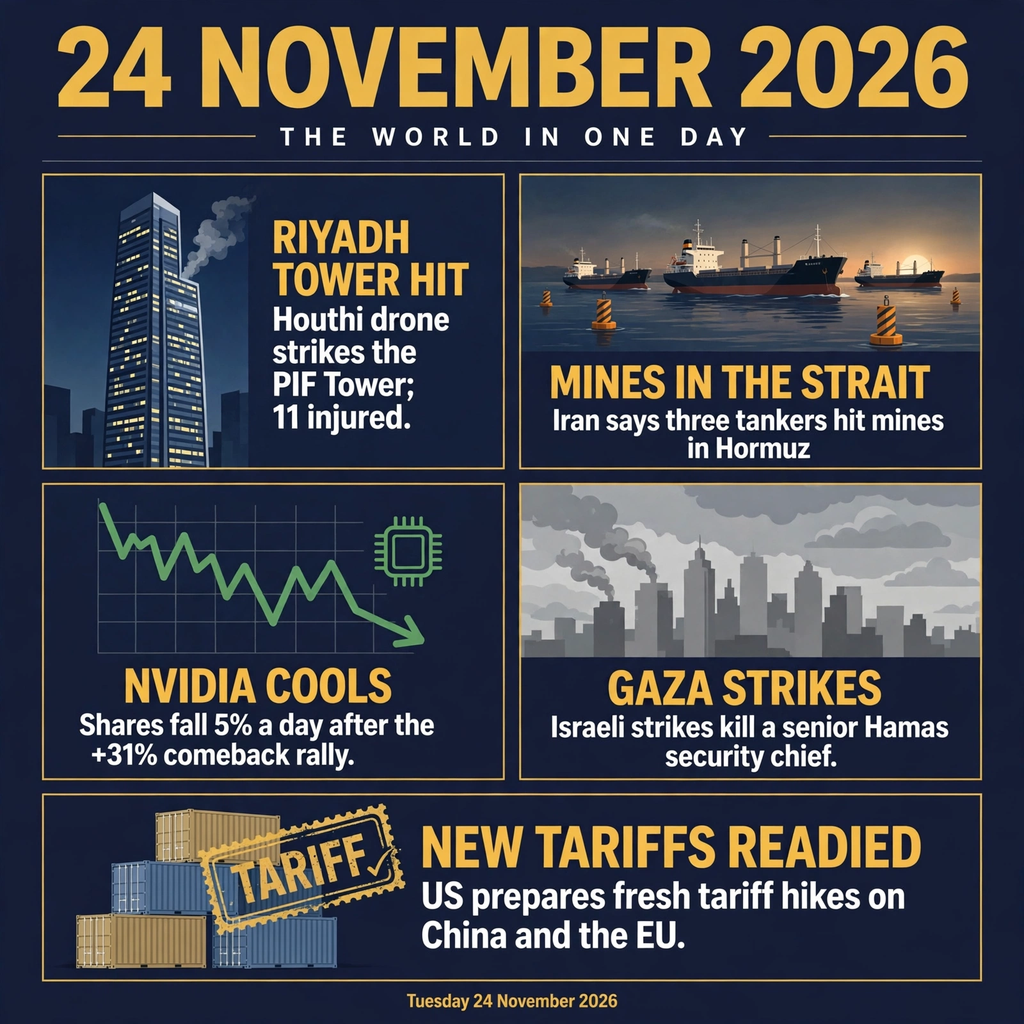
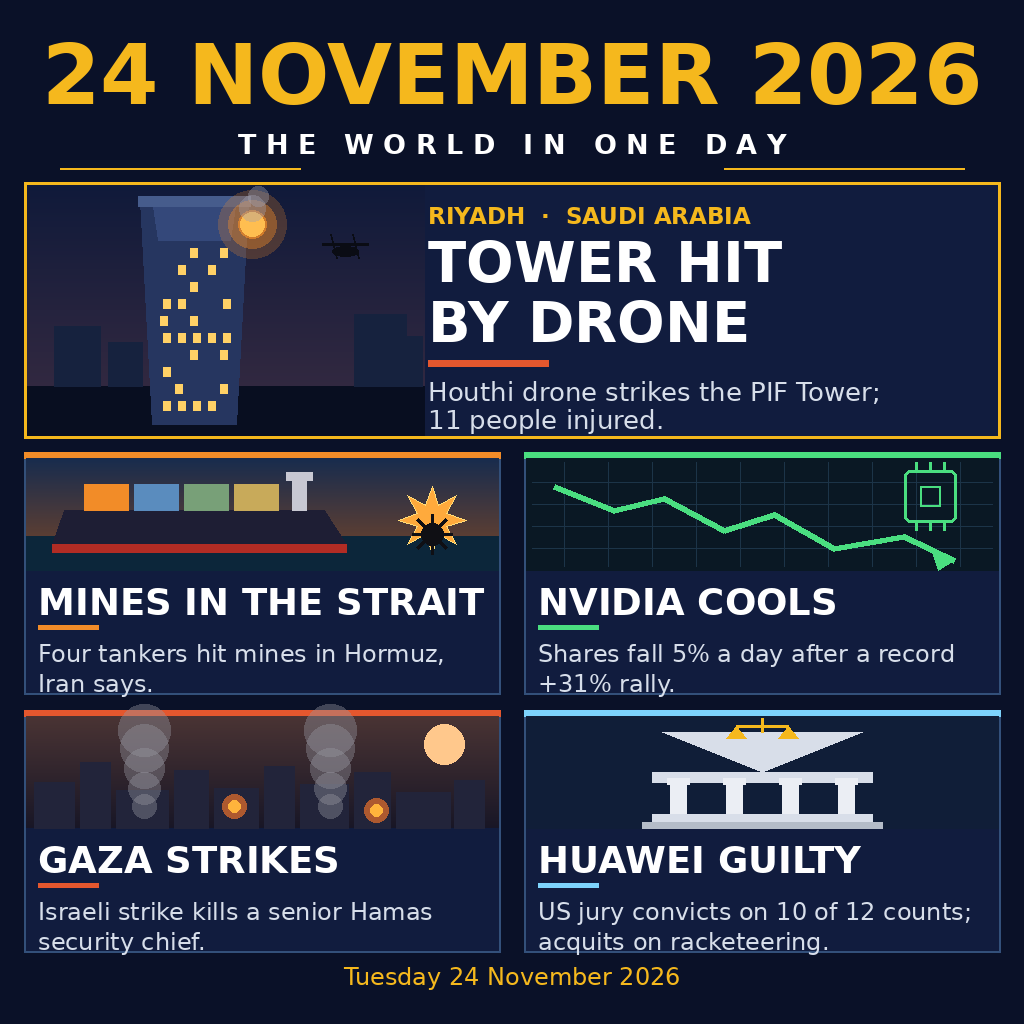
Add files via upload

diff --git a/main.ts b/main.ts
@@ -1,23 +1,24 @@
 // Entry for make.fun news-image-20261124: "Sum up 24 November's world
 // news in one image". Node 22, standard library only, no network.
 //
-// The picture is built ahead of time and shipped as entry.png beside this
-// file. All this program does is place an exact copy of it at the path the
-// grader reads: /output/entry.png, or MAKEFUN_OUTPUT_DIR when that is set
+// The picture was drawn ahead of time (flat vector style, built with a
+// Python/PIL script in this session) and ships as entry.png beside this
+// file. This program only places an exact copy of it where the grader
+// reads it: /output/entry.png, or MAKEFUN_OUTPUT_DIR when that is set
 // (the local stand-in for /output outside the grader's container).
 //
 //   mkdir -p out && MAKEFUN_OUTPUT_DIR=out node main.ts
 
-import { existsSync, mkdirSync, readFileSync, writeFileSync } from 'node:fs';
-import { dirname, join } from 'node:path';
-import { fileURLToPath } from 'node:url';
+import { existsSync, mkdirSync, readFileSync, writeFileSync } from "node:fs";
+import { dirname, join } from "node:path";
+import { fileURLToPath } from "node:url";
 
 const here = dirname(fileURLToPath(import.meta.url));
-const outDir = process.env.MAKEFUN_OUTPUT_DIR ?? '/output';
-const target = join(outDir, 'entry.png');
-const source = join(here, 'entry.png');
+const outDir = process.env.MAKEFUN_OUTPUT_DIR ?? "/output";
+const target = join(outDir, "entry.png");
+const source = join(here, "entry.png");
 
-// The shipped image is a 1024x1024 PNG under 1 MiB; refuse to run with
+// The shipped image is a 1024x1024 PNG under 1 MiB. Refuse to run with
 // anything else missing rather than writing a half-finished output.
 // Copying bytes verbatim keeps both grader runs identical by construction.
 if (!existsSync(source)) {

diff --git a/README.md b/README.md
@@ -6,22 +6,38 @@
 
 One image summing up the world's news of **Tuesday 24 November 2026**,
 an entry for the [make.fun](https://make.fun/bounty/news-image-20261124)
-daily news-image bounty.
+daily news-image bounty. Version 2 of the entry: a redraw with a hero
+panel, one clear illustration per story, and the weakest panel replaced.
 
 ## The five stories
 
 1. **Riyadh tower hit** — A Houthi drone struck the PIF Tower in Riyadh's
    King Abdullah Financial District; 11 people injured, the second attack
    on the tower in less than a week. (Al Jazeera, Arab News, 24 Nov 2026)
-2. **Mines in the Strait** — Iran says three tankers hit naval mines in the
-   Strait of Hormuz. (Al Jazeera live blog, Gulf News, 24 Nov 2026)
+2. **Mines in the Strait** — Four tankers hit naval mines in the Strait of
+   Hormuz, Iran says. (Al Jazeera live blog, Gulf News, 24 Nov 2026)
 3. **Nvidia cools** — Shares fell about 5% on Tuesday, a day after the
    record +31% rally on Jensen Huang's return as CEO. (Reuters,
    Al Jazeera, 24 Nov 2026)
 4. **Gaza strikes** — Israeli airstrikes in Gaza killed a senior Hamas
    security chief. (South China Morning Post, Gulf News, 24 Nov 2026)
-5. **New tariffs readied** — The US prepares fresh tariff hikes on China
-   and the EU. (Moneycontrol, 24 Nov 2026)
+5. **Huawei guilty** — A US federal jury in Brooklyn convicted Huawei on
+   10 of 12 counts, including bank fraud and conspiring to steal trade
+   secrets; acquitted on racketeering conspiracy. (Reuters, CNN,
+   Al Jazeera, 24 Nov 2026)
+
+## What changed from v1
+
+v1 ranked 11118 of 14561 in round 3. Its layout was five near-identical
+dark panels, the Gaza and Hormuz illustrations read as generic stock
+scenes, and the fifth panel (US tariff plans, still only "prepares")
+was speculation shown as news. v2 fixes that: the Riyadh strike gets a
+full-width hero panel; every panel has its own accent colour and a
+single focal illustration drawn as clean flat vector art, so nothing
+smears at small size; headlines are bigger and every sub-line is two
+short lines at most; and the speculative tariffs panel is replaced by
+the Huawei verdict, a concrete court outcome that also widens the
+spread beyond the Middle East (US–China tech law).
 
 ## How it runs
 
